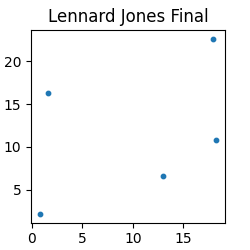
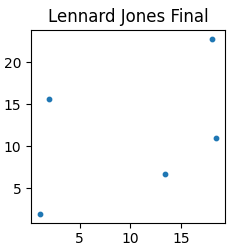
remove initial and final plot pngs

diff --git a/Sutherland272Project2c++.cpp b/Sutherland272Project2c++.cpp
@@ -7,8 +7,11 @@
 #include <cmath>
 #include <cstdlib>
 #include <vector>
-#include "matplotlibcpp.h"
+#include "matplotlibcpp.h" //plotting
+#include <filesystem> //handle output folder
+
 namespace plt = matplotlibcpp;
+namespace outpath = std::filesystem;
 
 const double sim_size = 25;
 const int numparticles = 5;
@@ -87,26 +90,46 @@ class lennard_jones {
     }
 };
 
+//save a plot for the current particle positions
+void save_iter_plot(const std::vector<particle> &pts,
+                    int step,
+                    const std::string &prefix = "lennardjones_step_")
+{
+
+    //link output folder
+    const std::string folder = "out";
+    outpath::create_directories(folder);
+
+    //current coordinates
+    std::vector<double> x, y;
+    x.reserve(pts.size());
+    y.reserve(pts.size());
+    for (const auto &k : pts)
+    {
+        x.push_back(k.x);
+        y.push_back(k.y);
+    }
+
+    plt::clf(); //clear previous frame
+    plt::figure_size(250, 250);
+    plt::scatter(x, y, 10);
+    plt::xlim(0.0, sim_size);
+    plt::ylim(0.0, sim_size);
+    plt::title("Lennard Jones step " + std::to_string(step));
+    plt::xlabel("x");
+    plt::ylabel("y");
+
+    char fname[256];
+    std::snprintf(fname, sizeof(fname), "%s/%s%04d.png", folder.c_str(), prefix.c_str(), step);
+    plt::save(fname);
+}
+
 int main() {
     lennard_jones system (numparticles);
     std::cout << "initial positions:" << std::endl;
     system.printpos();
     std::cout << std::endl;
-
-    //initial plot
-    {std::vector<double> x, y;
-    x.reserve(system.particles.size());
-    y.reserve(system.particles.size());
-    for (const auto& k : system.particles) {x.push_back(k.x); y.push_back(k.y);}
-
-    plt::plot(x, y);
-    plt::figure_size(250,250);
-    plt::scatter(x, y, 10);
-    plt::title("Lennard Jones Initial");
-    plt::xlabel("x");
-    plt::ylabel("y");
-    plt::save("lennardjonesinitial.png");
-}
+    save_iter_plot(system.particles, 0); //initial particle position plot
 
     //Metropolis loop
     for (int step = 0; step < steps; step++) {
@@ -128,27 +151,11 @@ int main() {
             }
         }
 
-        //Plot every iteration
-
+        //plot every iteration
+        save_iter_plot(system.particles, step + 1);
     }
     
     std::cout << "ending positions: " << std::endl;
     system.printpos();
-
-    // final plot
-    {std::vector<double> x, y;
-    x.reserve(system.particles.size());
-    y.reserve(system.particles.size());
-    for (const auto& k : system.particles) {x.push_back(k.x); y.push_back(k.y);}
-
-    plt::plot(x, y);
-    plt::figure_size(250,250);
-    plt::scatter(x, y, 10);
-    plt::title("Lennard Jones Final");
-    plt::xlabel("x");
-    plt::ylabel("y");
-    plt::save("lennardjonesfinal.png");
-    }
     return 0;
-
 }
